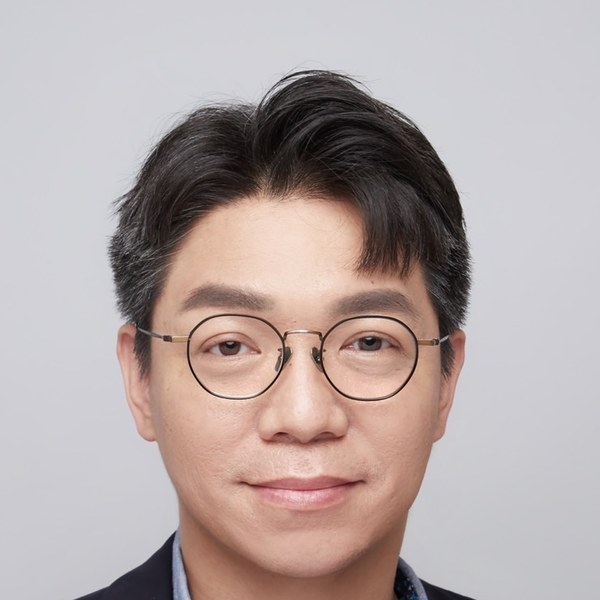
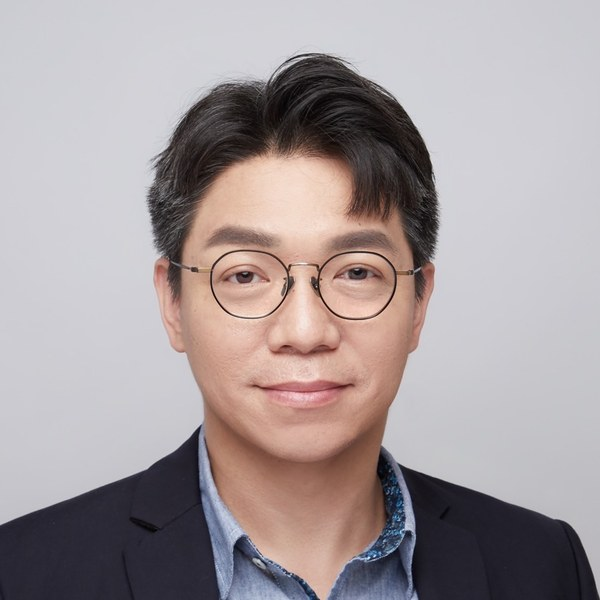
私人：Leslie Yu 照片左姓名右＋中文名

diff --git a/leslie-yu/index.html b/leslie-yu/index.html
@@ -1,15 +1,15 @@
 <!doctype html>
 <html lang="en"><head><meta charset="utf-8">
 <meta name="viewport" content="width=device-width,initial-scale=1,viewport-fit=cover">
-<title>Leslie Yu｜Sensofar Asia</title><meta name="robots" content="noindex,nofollow">
+<title>Leslie Yu 余宣魁｜Sensofar Asia</title><meta name="robots" content="noindex,nofollow">
 <meta name="theme-color" content="#FC001A"><meta name="format-detection" content="telephone=no">
 <link rel="stylesheet" href="card.css"></head>
 <body><div class="wrap">
 <header class="hero"><img class="logo" src="sensofar-logo-white.png" alt="SENSOFAR" width="230"><p class="tagline">LIGHTING UP YOUR QUALITY</p></header>
-<section class="id"><div class="mono"><img src="photo.jpg" alt="Leslie Yu" width="104" height="104"></div><h1>Leslie Yu</h1><p class="title">Managing Partner</p><p class="org">Sensofar Asia</p></section>
+<section class="id"><div class="mono"><img src="photo.jpg" alt="Leslie Yu 余宣魁" width="130" height="130"></div><div class="who"><h1>Leslie Yu</h1><p class="zh">余宣魁</p><p class="title">Managing Partner</p><p class="org">Sensofar Asia</p></div></section>
 <main>
-<a class="btn main" href="tel:+886988106002"><svg class=ic viewBox='0 0 24 24' fill=none stroke=currentColor stroke-width=1.8 stroke-linecap=round stroke-linejoin=round><path d='M5 3h4l2 5-2.5 1.5a11 11 0 0 0 6 6L16 13l5 2v4a2 2 0 0 1-2 2A16 16 0 0 1 3 5a2 2 0 0 1 2-2z'/></svg><span>Call Mobile<b>+886 988 106 002</b></span></a>
-<a class="btn" href="tel:+8618321152440"><svg class=ic viewBox='0 0 24 24' fill=none stroke=currentColor stroke-width=1.8 stroke-linecap=round stroke-linejoin=round><path d='M5 3h4l2 5-2.5 1.5a11 11 0 0 0 6 6L16 13l5 2v4a2 2 0 0 1-2 2A16 16 0 0 1 3 5a2 2 0 0 1 2-2z'/></svg><span>Call China<b>+86 183 2115 2440</b></span></a>
+<a class="btn main" href="tel:+886988106002"><svg class=ic viewBox='0 0 24 24' fill=none stroke=currentColor stroke-width=1.8 stroke-linecap=round stroke-linejoin=round><path d='M5 3h4l2 5-2.5 1.5a11 11 0 0 0 6 6L16 13l5 2v4a2 2 0 0 1-2 2A16 16 0 0 1 3 5a2 2 0 0 1 2-2z'/></svg><span>台灣手機<b>0988-106-002</b></span></a>
+<a class="btn" href="tel:+8618321152440"><svg class=ic viewBox='0 0 24 24' fill=none stroke=currentColor stroke-width=1.8 stroke-linecap=round stroke-linejoin=round><path d='M5 3h4l2 5-2.5 1.5a11 11 0 0 0 6 6L16 13l5 2v4a2 2 0 0 1-2 2A16 16 0 0 1 3 5a2 2 0 0 1 2-2z'/></svg><span>中國電話<b>+86 183 2115 2440</b></span></a>
 <a class="btn" href="mailto:leslie@sensofar.com"><svg class=ic viewBox='0 0 24 24' fill=none stroke=currentColor stroke-width=1.8 stroke-linecap=round stroke-linejoin=round><rect x='3' y='5' width='18' height='14' rx='2'/><path d='M3 7l9 6 9-6'/></svg><span>Email<b>leslie@sensofar.com</b></span></a>
 <a class="btn" href="leslie-yu.vcf" download><svg class=ic viewBox='0 0 24 24' fill=none stroke=currentColor stroke-width=1.8 stroke-linecap=round stroke-linejoin=round><circle cx='10' cy='8' r='4'/><path d='M3 20a7 7 0 0 1 14 0M19 8v6M16 11h6'/></svg><span>Add to Contacts</span></a>
 <div class="grid">

diff --git a/leslie-yu/card.css b/leslie-yu/card.css
@@ -28,3 +28,16 @@ footer{text-align:center;font-size:11px;letter-spacing:.3em;color:#aaa;padding:1
 .mono{width:112px;height:112px;margin-top:-16px;padding:0;overflow:hidden;box-shadow:0 6px 20px rgba(0,0,0,.18),0 0 0 3px #FC001A}
 .mono img{width:100%;height:100%;border-radius:50%;object-fit:cover;display:block}
 .id{margin-top:-56px}
+/* v3 照片左、姓名右 */
+body{font-family:"Open Sans","Segoe UI",Roboto,"Helvetica Neue",Arial,"Noto Sans TC","Noto Sans CJK TC","PingFang TC","Microsoft JhengHei",sans-serif}
+.hero{padding-bottom:58px}
+.id{display:flex;align-items:flex-end;gap:24px;margin-top:-50px;padding:0 22px 4px 24px;text-align:left}
+.mono{flex:0 0 130px;width:130px;height:130px;margin:0}
+.who{flex:1;min-width:0;padding-bottom:2px}
+.who h1{font-size:26px;line-height:1.15;white-space:nowrap}
+.zh{font-size:18px;font-weight:600;color:#444;letter-spacing:.12em;margin-top:2px}
+.who .title{font-size:14px;margin-top:6px;white-space:nowrap}
+.who .org{font-size:12.5px;white-space:nowrap}
+.hero{padding-bottom:50px}
+.id{align-items:flex-start;margin-top:-42px}
+.who{padding-top:50px}
